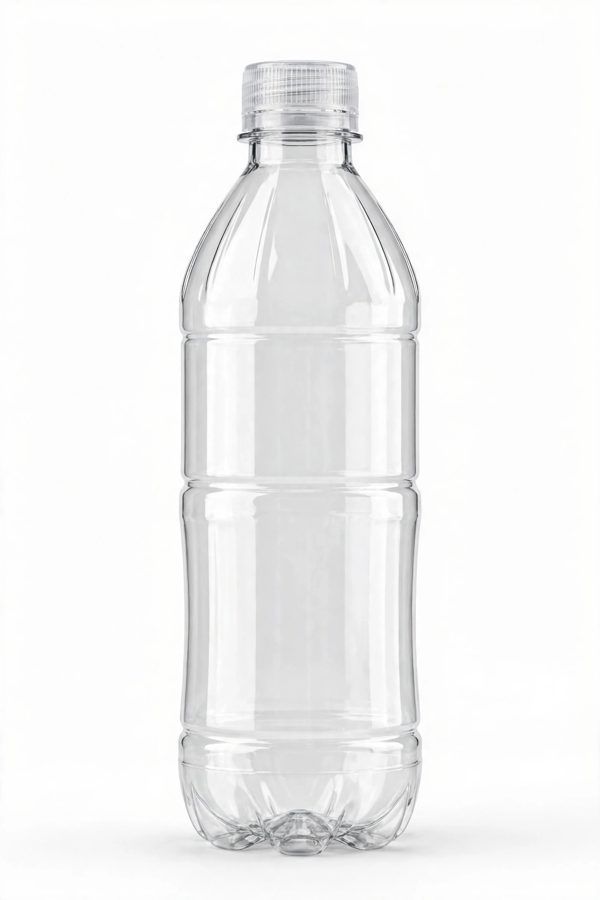
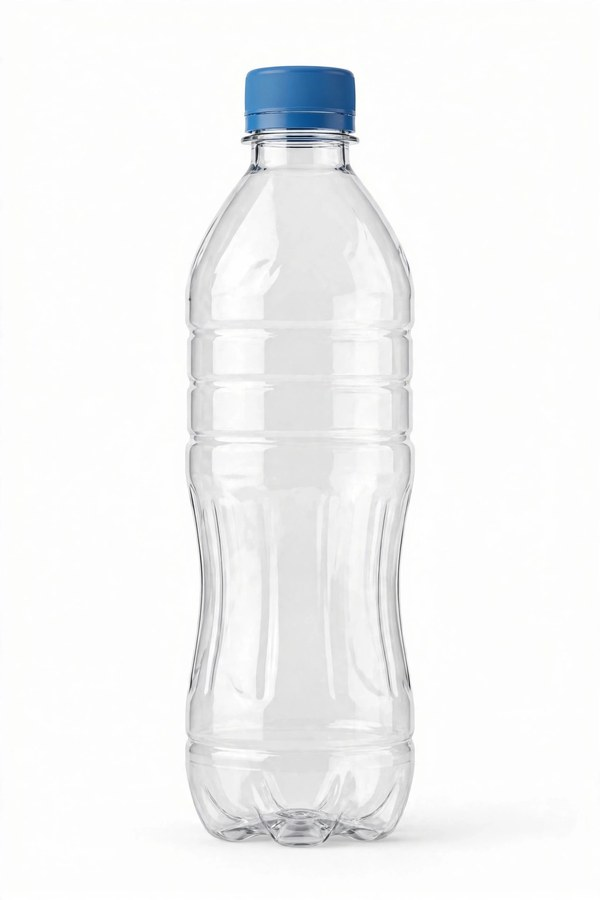
Samples pivot to measured winners: beer bottles (beer bottle 0.785) replace pizza (MobileNet caps ~0.25 on generated pizza photos); bottle 0.887, phone 0.919, banana 0.958, teddy unmapped

Changed region(s): [[0.3, 0.0622, 0.72, 0.9644], [0.42, 0.6533, 0.48, 0.7778]]

diff --git a/app.js b/app.js
@@ -6,7 +6,7 @@
   var JOURNAL_KEY = 'triclair.journal.v1';
   var SAMPLES = [
     { file: 'samples/plastic-bottle.jpg', caption: 'Plastic bottle' },
-    { file: 'samples/pizza.jpg', caption: 'Pizza (box)' },
+    { file: 'samples/beer-bottles.jpg', caption: 'Beer bottles' },
     { file: 'samples/banana.jpg', caption: 'Banana' },
     { file: 'samples/cell-phone.jpg', caption: 'Cell phone' },
     { file: 'samples/unknown.jpg', caption: 'Unknown object' }

diff --git a/samples/CREDITS.md b/samples/CREDITS.md
@@ -2,8 +2,8 @@
 
 | File | Subject | Source |
 |---|---|---|
-| `plastic-bottle.jpg` | Empty plastic water bottle | AI-generated by the TriClair team for this project (2026-10-27). No external license. |
-| `pizza.jpg` | Pizza in an open cardboard box | AI-generated by the TriClair team for this project (2026-10-27). No external license. |
+| `plastic-bottle.jpg` | Empty plastic water bottle | AI-generated by the TriClair team for this project (2026-10-28; composition chosen from measured MobileNet runs — see project journal). No external license. |
+| `beer-bottles.jpg` | Empty beer bottles (glass) | AI-generated by the TriClair team for this project (2026-10-28; composition chosen from measured MobileNet runs — see project journal). No external license. |
 | `banana.jpg` | Banana | AI-generated by the TriClair team for this project (2026-10-27). No external license. |
 | `unknown.jpg` | Teddy bear (the "unknown object" demo) | AI-generated by the TriClair team for this project (2026-10-27). No external license. |
-| `cell-phone.jpg` | Mobile phone | AI-generated by the TriClair team for this project (2026-10-28). No external license. (A Wikimedia Commons download was attempted first and failed on a lost browser connection; the team generated the photo instead.) |
+| `cell-phone.jpg` | Mobile phone (flip phone) | AI-generated by the TriClair team for this project (2026-10-28). No external license. (A Wikimedia Commons download was attempted first and failed on a lost browser connection; the team generated the photo instead. Composition chosen from measured MobileNet runs — see project journal.) |

diff --git a/README.md b/README.md
@@ -24,8 +24,9 @@ photo ever leaves the device.
 
 1. Click a sample photo, or upload your own:
    - **Plastic bottle** → Blue bin (recycling), rule cited.
-   - **Pizza** → set condition **Soiled** → Brown bin (compost); set it back to
-     **Clean** → Blue bin. The condition is what decides — so TriClair asks.
+   - **Beer bottles (glass)** → Blue bin; now set condition **Broken** → Grey
+     bin, wrapped and labelled: broken glass never goes loose in the blue bin.
+     The condition is what decides — so TriClair asks.
    - **Banana** → Brown bin (compost).
    - **Cell phone** → Ecocentre drop-off.
    - **Teddy bear ("unknown")** → **Uncertain** verdict + manual material
